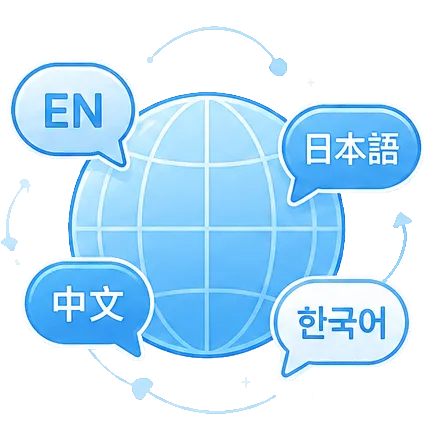
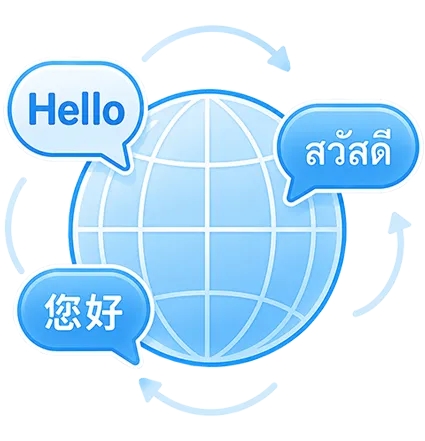
0729樣式修正，針對當天會議的修改

diff --git a/index.html b/index.html
@@ -243,33 +243,33 @@ $(function() {
 	  <h2>深耕遊戲領域多年，從遊戲推廣、多元支付到玩家服務</h2>
 	  <div class="step">
         <ul>
-		  <li data-wow-delay="0.2s" data-wow-offset="5" class="step1 span3 wow fadeInLeft center">品牌建立</li>
-		  <dl data-wow-delay="0.2s" data-wow-offset="5" class="step1_bg span3 wow fadeInLeft center">
+		  <li data-wow-delay="0.1s" data-wow-offset="5" class="step1 span3 wow fadeInLeft center">品牌賦能</li>
+		  <dl data-wow-delay="0.1s" data-wow-offset="5" class="step1_bg span3 wow fadeInLeft center">
 			  <div class="icon"><img src="images/marketing_icon1.webp"></div>
 			  <h3>行銷策略規劃</h3>
-			  <p>依遊戲特色規劃行銷主軸，整合故事、賣點與視覺，打造鮮明品牌資產並延續市場布局。</p>
+			  <p>依遊戲特色規劃行銷主軸，整合故事、賣點與視覺，打造鮮明品牌資產並延續市場佈局。</p>
 		  </dl>
-		  <dl data-wow-delay="0.2s" data-wow-offset="5" class="step1_bg span3 wow fadeInLeft center">
+		  <dl data-wow-delay="0.1s" data-wow-offset="5" class="step1_bg span3 wow fadeInLeft center">
 			  <div class="icon"><img src="images/marketing_icon2.webp"></div>
 			  <h3>品牌代言媒合</h3>
 			  <p>精選符合市場與遊戲風格的代言人及KOL，串聯多平台話題，提升品牌好感與聲量。</p>
 		  </dl>
 		</ul>
 		<ul>
-		  <li data-wow-delay="0.4s" data-wow-offset="5" class="step2 span3 wow fadeInLeft center">品牌推廣</li>
+		  <li data-wow-delay="0.4s" data-wow-offset="5" class="step2 span3 wow fadeInLeft center">聲量造勢</li>
 		   <dl data-wow-delay="0.4s" data-wow-offset="5" class="step2_bg span3 wow fadeInLeft center">
 			  <div class="icon"><img src="images/marketing_icon3.webp"></div>
 			  <h3>遊戲上市前預熱</h3>
 			  <p>運用MyCard通路與活動資源，推動事前登錄，快速累積玩家，擴大上市前聲量。</p>
 		  </dl>
 		  <dl data-wow-delay="0.4s" data-wow-offset="5" class="step2_bg span3 wow fadeInLeft center">
-			  <div class="icon"><img src="images/marketing_icon6.webp"></div>
-			  <h3>遊戲上市後推廣</h3>
+			  <div class="icon"><img src="images/marketing_icon4.webp"></div>
+			  <h3>街頭玩家見面會<br>與活動策展</h3>
 			  <p>結合街頭玩家見面會、影音創作與活動策展，持續擴大新遊戲聲量與玩家互動。</p>
 		  </dl>
 		</ul>
 		<ul>
-		  <li data-wow-delay="0.8s" data-wow-offset="5" class="step3 span3 wow fadeInLeft center">通路推廣</li>
+		  <li data-wow-delay="0.8s" data-wow-offset="5" class="step3 span3 wow fadeInLeft center">通路曝光</li>
 		  <dl data-wow-delay="0.8s" data-wow-offset="5" class="step3_bg span3 wow fadeInLeft center">
 			  <div class="icon"><img src="images/marketing_icon7.webp"></div>
 			  <h3>線上+線下全方位曝光</h3>
@@ -282,13 +282,17 @@ $(function() {
 		  </dl>
 		</ul>
 		<ul>
-		  <li data-wow-delay="1s" data-wow-offset="5" class="step4 span3 wow fadeInLeft center">異業聯名</li>
-		  <dd data-wow-delay="1s" data-wow-offset="5" class="step4_bg span3 wow fadeInLeft center">
+		  <li data-wow-delay="1.2s" data-wow-offset="5" class="step4 span3 wow fadeInLeft center">異業聯名</li>
+		  <dd data-wow-delay="1.2s" data-wow-offset="5" class="step4_bg span3 wow fadeInLeft center">
 			  <div class="icon"><img src="images/marketing_icon9.webp"></div>
 			  <h3>異業聯名企劃</h3>
 			  <p>整合品牌、餐飲、影視與零售資源，創造聯名話題與市場熱度。</p>
 		  </dd>
-		  
+		  <dd data-wow-delay="1.2s" data-wow-offset="5" class="step4_bg span3 wow fadeInLeft center">
+			  <div class="icon"><img src="images/marketing_icon10.webp"></div>
+			  <h3>異業會員導流</h3>
+			  <p>串聯合作品牌會員生態圈，透過跨平台導流與異業點數兌換等機制，擴大玩家觸及並帶動新客獲取。</p>
+		  </dd>
 		</ul>
 	  </div>
 	</div>
@@ -326,8 +330,8 @@ $(function() {
         <ul>
 	     <li>
             <ol><img src="images/customer_service_icon1.webp"></ol>
-	        <h6>將客訴轉化為「品牌好感度」</h6>
-	        <p>MyCard客服能快速解決問題，降低售後服務的客訴，轉化為玩家對您的遊戲品牌信任與持續消費。</p>
+	        <h6>消費體驗回饋</h6>
+	        <p>透過消費服務的回饋，轉化為玩家對您的遊戲品牌信任與持續消費。</p>
           </li>
 	      <li>
 	        <ol><img src="images/customer_service_icon2.webp"></ol>
@@ -434,7 +438,7 @@ $(function() {
 			<dt>Step.2</dt>
 			<dd>技術串接</dd>
 			<div data-wow-delay="0.2s" data-wow-offset="5" class="sample span3 wow lightSpeedIn center"><img src="images/cooperate_step2.webp"></div>
-		  	<ol>整合MyCard的系統<br>並進行測試</ol>
+		  	<ol>簡易串接流程<br>提供完整串接文件</ol>
 		  </li>
 		  <dl>
 			<dt>Step.3</dt>

diff --git a/css/M.css b/css/M.css
@@ -565,7 +565,7 @@ body {
 #marketing .step .step5 {background-image: url(../images/marketing_step5.webp); background-repeat: no-repeat; background-size:100%;}
 #marketing .step ul dl {
 	width:95%;
-	height:200px;
+	height:210px;
 	margin:0 5% 2% 0;
 	padding:3% 0;
 	border-radius:10px;
@@ -610,7 +610,7 @@ body {
 }
 #marketing .step ul dd {
 	width:95%;
-	height:200px;
+	height:210px;
 	margin:0 5% 2% 0;
 	padding:3% 0;
 	border-radius:10px;
@@ -649,7 +649,7 @@ body {
 	line-height: 18px;
 	font-weight: normal;
 	color: #444444;
-	text-align:left;
+	text-align:justify;
 	display:inline;
 	float:left;
 }
@@ -911,7 +911,7 @@ body {
 	float:left;
 }
 #choice dl dt {
-	width:19%;
+	width:15.6%;
 	margin:2% 0.5% 1.5% 0.5%;
 	padding:0;
 	border-radius:10px;

diff --git a/css/LM.css b/css/LM.css
@@ -511,7 +511,7 @@ body {
 #marketing .step .step5 {background-image: url(../images/marketing_step5.webp); background-repeat: no-repeat; background-size:100%;}
 #marketing .step ul dl {n
 	width:95%;
-	height:240px;
+	height:260px;
 	margin:0 5% 2% 0;
 	padding:3% 0;
 	border-radius:10px;
@@ -556,7 +556,7 @@ body {
 }
 #marketing .step ul dd {
 	width:95%;
-	height:240px;
+	height:260px;
 	margin:0 5% 2% 0;
 	padding:3% 0;
 	border-radius:10px;
@@ -595,7 +595,7 @@ body {
 	line-height: 24px;
 	font-weight: normal;
 	color: #444444;
-	text-align:left;
+	text-align:justify;
 	display:inline;
 	float:left;
 }

diff --git a/css/S.css b/css/S.css
@@ -648,7 +648,7 @@ body {
 	line-height: 21px;
 	font-weight: normal;
 	color: #444444;
-	text-align:left;
+	text-align:justify;
 	display:inline;
 	float:left;
 }
@@ -910,10 +910,10 @@ body {
 	float:left;
 }
 #choice dl dt {
-	width:19%;
+	width:15.6%;
 	margin:2% 0.5% 1.5% 0.5%;
 	padding:0;
-	border-radius:10px;
+	border-radius:5px;
 	display:inline;
 	float:left;
 }

diff --git a/css/L.css b/css/L.css
@@ -595,7 +595,7 @@ body {
 	line-height: 26px;
 	font-weight: normal;
 	color: #444444;
-	text-align:left;
+	text-align:justify;
 	display:inline;
 	float:left;
 }
